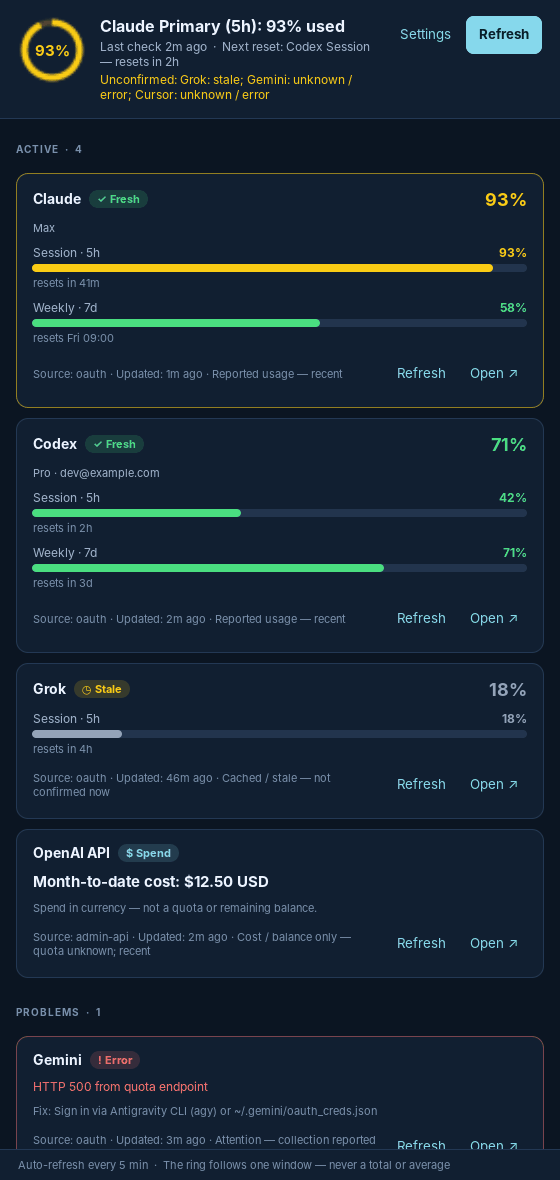
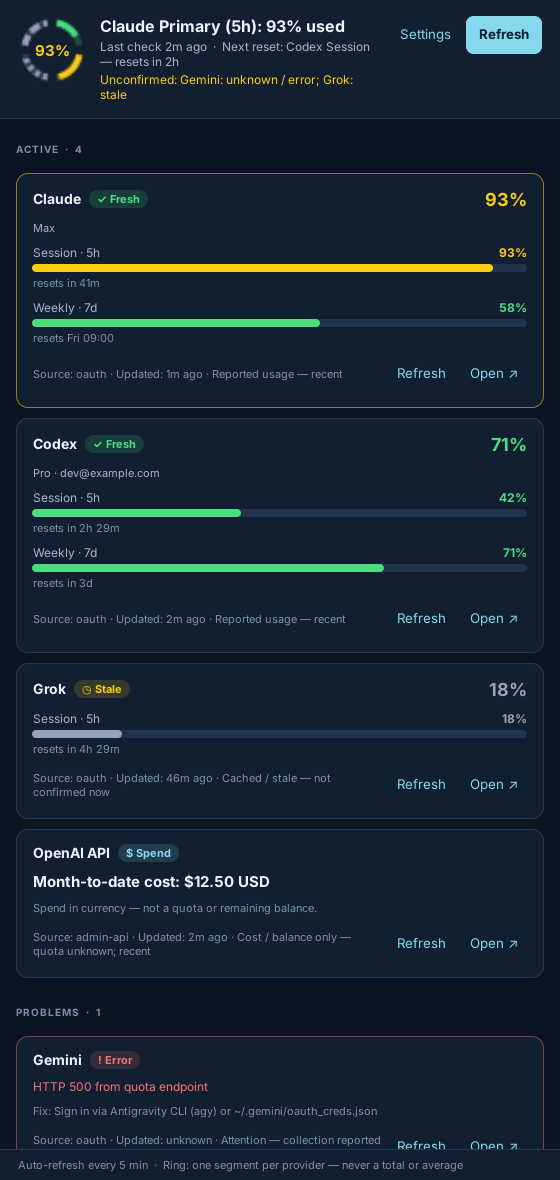
docs(site): segmented ring, new tray menu and meter choice
The website described the single most-used ring and the old menu.

- Hero copy, Tab. 1 note and a new "Segmented" row explain one ring
  segment per connected provider.
- The Overview demo (Fig. 2) draws segments with the same geometry as
  segmented_gauge_svg(); scenario B shows Claude's segment red and Codex's
  amber instead of a fully red ring.
- The tray menu mock (Fig. 3) matches the new menu: compact header, ring
  meters, conditions in words, middle-click and the ring/bar choice.
- The icon page adds segmented examples for light and dark panels.
- The Overview capture (Fig. 5) is re-rendered offscreen from this branch
  with the same synthetic data.

Claude-Session: https://claude.ai/code/session_01YaVGAeM8f2SdhnGuqCPbib

diff --git a/site/index.html b/site/index.html
@@ -33,7 +33,7 @@
       <div class="hero-text">
         <p class="meta">v0.1.0-alpha.4 · Linux, GTK 3 · MIT</p>
         <h1 class="display" data-pt="Uma lanterna para as suas <em>cotas de IA</em>." data-en="A lantern for your <em>AI quotas</em>.">Uma lanterna para as suas <em>cotas de IA</em>.</h1>
-        <p class="lede" data-pt="O QuotaLantern fica na bandeja do sistema e mostra quanto você já usou da janela mais cheia entre Codex, Claude, Gemini e outros. Se a leitura está velha ou não chegou, o anel avisa em vez de mostrar zero." data-en="QuotaLantern sits in your system tray and shows how much of the fullest window you have used across Codex, Claude, Gemini and more. If a reading is old or never arrived, the ring says so instead of showing zero.">O QuotaLantern fica na bandeja do sistema e mostra quanto você já usou da janela mais cheia entre Codex, Claude, Gemini e outros. Se a leitura está velha ou não chegou, o anel avisa em vez de mostrar zero.</p>
+        <p class="lede" data-pt="O QuotaLantern fica na bandeja do sistema e mostra quanto você já usou das cotas do Codex, Claude, Gemini e outros, com um segmento do anel por provedor. Se a leitura está velha ou não chegou, o anel avisa em vez de mostrar zero." data-en="QuotaLantern sits in your system tray and shows how much of your Codex, Claude, Gemini and other quotas you have used, one ring segment per provider. If a reading is old or never arrived, the ring says so instead of showing zero.">O QuotaLantern fica na bandeja do sistema e mostra quanto você já usou das cotas do Codex, Claude, Gemini e outros, com um segmento do anel por provedor. Se a leitura está velha ou não chegou, o anel avisa em vez de mostrar zero.</p>
         <div class="btn-row">
           <a class="btn solid" href="#instalar"><span data-pt="Instalar" data-en="Install">Instalar</span> <span aria-hidden="true">↓</span></a>
           <a class="btn" href="https://github.com/caiolombello/quotalantern" data-pt="Código no GitHub ↗" data-en="Source on GitHub ↗">Código no GitHub ↗</a>
@@ -74,8 +74,8 @@
       <div class="demo" data-demo>
         <fieldset class="scenario-list">
           <legend data-pt="Escolha um cenário" data-en="Pick a scenario">Escolha um cenário</legend>
-          <label class="scenario"><input type="radio" name="scenario" value="normal" checked><span class="key">A</span><span class="name" data-pt="Tudo certo" data-en="All clear">Tudo certo</span><span class="desc" data-pt="Leituras recentes. O anel acompanha a janela mais cheia, aqui a sessão de 5 h do Codex." data-en="Fresh readings. The ring follows the fullest window, here Codex’s 5-hour session.">Leituras recentes. O anel acompanha a janela mais cheia, aqui a sessão de 5 h do Codex.</span></label>
-          <label class="scenario"><input type="radio" name="scenario" value="near"><span class="key">B</span><span class="name" data-pt="Perto do limite" data-en="Near the limit">Perto do limite</span><span class="desc" data-pt="O Claude passou de 95%. Anel e barra ficam vermelhos e o card sobe para o topo. O anel nunca soma provedores nem tira média." data-en="Claude went past 95%. Ring and bar turn red and the card moves to the top. The ring never adds providers up or averages them.">O Claude passou de 95%. Anel e barra ficam vermelhos e o card sobe para o topo. O anel nunca soma provedores nem tira média.</span></label>
+          <label class="scenario"><input type="radio" name="scenario" value="normal" checked><span class="key">A</span><span class="name" data-pt="Tudo certo" data-en="All clear">Tudo certo</span><span class="desc" data-pt="Leituras recentes. Cada provedor tem um segmento do anel, preenchido pela sua janela mais cheia: Codex 42% e Claude 27%." data-en="Fresh readings. Each provider gets a ring segment filled by its fullest window: Codex 42% and Claude 27%.">Leituras recentes. Cada provedor tem um segmento do anel, preenchido pela sua janela mais cheia: Codex 42% e Claude 27%.</span></label>
+          <label class="scenario"><input type="radio" name="scenario" value="near"><span class="key">B</span><span class="name" data-pt="Perto do limite" data-en="Near the limit">Perto do limite</span><span class="desc" data-pt="O Claude passou de 95%. Só o segmento dele fica vermelho, o do Codex segue âmbar, e o card sobe para o topo. O anel nunca soma provedores nem tira média." data-en="Claude went past 95%. Only its segment turns red, Codex’s stays amber, and the card moves to the top. The ring never adds providers up or averages them.">O Claude passou de 95%. Só o segmento dele fica vermelho, o do Codex segue âmbar, e o card sobe para o topo. O anel nunca soma provedores nem tira média.</span></label>
           <label class="scenario"><input type="radio" name="scenario" value="stale"><span class="key">C</span><span class="name" data-pt="Leitura antiga" data-en="Stale reading">Leitura antiga</span><span class="desc" data-pt="Nada foi confirmado nos últimos 10 minutos. As barras ficam cinza, o anel mostra um relógio e a janela lista o que ficou sem confirmação." data-en="Nothing was confirmed in the last 10 minutes. Bars turn grey, the ring shows a clock and the window lists what is unconfirmed.">Nada foi confirmado nos últimos 10 minutos. As barras ficam cinza, o anel mostra um relógio e a janela lista o que ficou sem confirmação.</span></label>
           <label class="scenario"><input type="radio" name="scenario" value="unknown"><span class="key">D</span><span class="name" data-pt="Sem dados" data-en="No data">Sem dados</span><span class="desc" data-pt="O Gemini respondeu com erro e o Cursor não está conectado. Cada card diz o que fazer." data-en="Gemini returned an error and Cursor isn’t connected. Each card says what to do.">O Gemini respondeu com erro e o Cursor não está conectado. Cada card diz o que fazer.</span></label>
         </fieldset>
@@ -94,7 +94,7 @@
                 <div class="app-buttons"><span class="app-btn">Settings</span><span class="app-btn primary">Refresh</span></div>
               </div>
               <div class="app-body" data-app-body></div>
-              <div class="app-foot">Auto-refresh every 5 min  ·  The ring follows one window — never a total or average</div>
+              <div class="app-foot">Auto-refresh every 5 min  ·  Ring: one segment per provider — never a total or average</div>
             </div>
           </div>
           <figcaption class="caption plate-cap" data-pt="Fig. 2 · Janela Overview com dados inventados. O texto do app é em inglês." data-en="Fig. 2 · Overview window with made-up data. The app’s text is in English.">Fig. 2 · Janela Overview com dados inventados. O texto do app é em inglês.</figcaption>
@@ -120,10 +120,11 @@
             <tr><td><span class="icons"><svg viewBox="0 0 32 32" aria-hidden="true" focusable="false"><circle cx="16" cy="16" r="13" fill="none" stroke="var(--crit)" stroke-width="3" opacity=".25"/><circle cx="16" cy="16" r="13" fill="none" stroke="var(--crit)" stroke-width="3" stroke-dasharray="79.231 81.681" transform="rotate(-90 16 16)"/><g transform="translate(7.68 7.68) scale(.52)" fill="var(--ink)"><path d="M9 3H15V6H18L23 11H1L6 6H9Z"/><path d="M3 13H7L10 26H18L21 13H25L21 30H7Z"/><path d="M12 14L30 12V20L12 18Z"/></g></svg><svg viewBox="0 0 32 32" aria-hidden="true" focusable="false"><circle cx="16" cy="16" r="13" fill="none" stroke="var(--crit)" stroke-width="3" opacity=".25"/><circle cx="16" cy="16" r="13" fill="none" stroke="var(--crit)" stroke-width="3" stroke-dasharray="79.231 81.681" transform="rotate(-90 16 16)"/><g transform="translate(7.68 7.68) scale(.52)" fill="var(--ink)"><path d="M9 3H15V6H18L23 11H1L6 6H9Z"/><path d="M3 13H7L10 26H18L21 13H25L21 30H7Z"/><path d="M12 14L30 12V20L12 18Z"/></g></svg></span></td><th scope="row" data-pt="Vermelho" data-en="Red">Vermelho</th><td data-pt="No nível crítico ou acima, 95% por padrão." data-en="At or above the critical level, 95% by default.">No nível crítico ou acima, 95% por padrão.</td></tr>
             <tr><td><span class="icons"><svg viewBox="0 0 32 32" aria-hidden="true" focusable="false"><circle cx="16" cy="16" r="13" fill="none" stroke="var(--neutral)" stroke-width="3" opacity=".25"/><circle cx="16" cy="16" r="13" fill="none" stroke="var(--neutral)" stroke-width="3" stroke-dasharray="2 3"/><path d="M11 16H21" fill="none" stroke="var(--neutral)" stroke-width="3" stroke-linecap="round"/></svg><svg viewBox="0 0 32 32" aria-hidden="true" focusable="false"><circle cx="16" cy="16" r="13" fill="none" stroke="var(--neutral)" stroke-width="3" opacity=".25"/><circle cx="16" cy="16" r="13" fill="none" stroke="var(--neutral)" stroke-width="3" stroke-dasharray="2 3"/><path d="M11 16H21" fill="none" stroke="var(--neutral)" stroke-width="3" stroke-linecap="round"/></svg></span></td><th scope="row" data-pt="Pontilhado com traço" data-en="Dotted with a dash">Pontilhado com traço</th><td data-pt="Sem leitura válida, com erro ou só com custo em moeda." data-en="No valid reading, an error, or currency cost only.">Sem leitura válida, com erro ou só com custo em moeda.</td></tr>
             <tr><td><span class="icons"><svg viewBox="0 0 32 32" aria-hidden="true" focusable="false"><circle cx="16" cy="16" r="13" fill="none" stroke="var(--neutral)" stroke-width="3" opacity=".25"/><circle cx="16" cy="16" r="13" fill="none" stroke="var(--neutral)" stroke-width="3" stroke-dasharray="7 3"/><path d="M16 10V16L20 19" fill="none" stroke="var(--neutral)" stroke-width="3" stroke-linecap="round"/></svg><svg viewBox="0 0 32 32" aria-hidden="true" focusable="false"><circle cx="16" cy="16" r="13" fill="none" stroke="var(--neutral)" stroke-width="3" opacity=".25"/><circle cx="16" cy="16" r="13" fill="none" stroke="var(--neutral)" stroke-width="3" stroke-dasharray="7 3"/><path d="M16 10V16L20 19" fill="none" stroke="var(--neutral)" stroke-width="3" stroke-linecap="round"/></svg></span></td><th scope="row" data-pt="Tracejado com relógio" data-en="Dashed with a clock">Tracejado com relógio</th><td data-pt="Leitura de cache ou com mais de 10 minutos." data-en="Cached reading or older than 10 minutes.">Leitura de cache ou com mais de 10 minutos.</td></tr>
+            <tr><td><span class="icons"><svg viewBox="0 0 32 32" aria-hidden="true" focusable="false"><path d="M18.257 3.197A13 13 0 0 1 18.257 28.803" fill="none" stroke="var(--crit)" stroke-width="3" opacity=".25"/><path d="M18.257 3.197A13 13 0 0 1 18.257 28.803" fill="none" stroke="var(--crit)" stroke-width="3"/><path d="M13.743 28.803A13 13 0 0 1 13.743 3.197" fill="none" stroke="var(--ok)" stroke-width="3" opacity=".25"/><path d="M13.743 28.803A13 13 0 0 1 7.301 25.661" fill="none" stroke="var(--ok)" stroke-width="3"/><g transform="translate(7.68 7.68) scale(.52)" fill="var(--ink)"><path d="M9 3H15V6H18L23 11H1L6 6H9Z"/><path d="M3 13H7L10 26H18L21 13H25L21 30H7Z"/><path d="M12 14L30 12V20L12 18Z"/></g></svg><svg viewBox="0 0 32 32" aria-hidden="true" focusable="false"><path d="M18.257 3.197A13 13 0 0 1 18.257 28.803" fill="none" stroke="var(--crit)" stroke-width="3" opacity=".25"/><path d="M18.257 3.197A13 13 0 0 1 18.257 28.803" fill="none" stroke="var(--crit)" stroke-width="3"/><path d="M13.743 28.803A13 13 0 0 1 13.743 3.197" fill="none" stroke="var(--ok)" stroke-width="3" opacity=".25"/><path d="M13.743 28.803A13 13 0 0 1 7.301 25.661" fill="none" stroke="var(--ok)" stroke-width="3"/><g transform="translate(7.68 7.68) scale(.52)" fill="var(--ink)"><path d="M9 3H15V6H18L23 11H1L6 6H9Z"/><path d="M3 13H7L10 26H18L21 13H25L21 30H7Z"/><path d="M12 14L30 12V20L12 18Z"/></g></svg></span></td><th scope="row" data-pt="Segmentado" data-en="Segmented">Segmentado</th><td data-pt="Dois ou mais provedores conectados: um segmento cada, no sentido horário a partir do topo. Aqui o Codex no limite e o Claude em 20%." data-en="Two or more connected providers: one segment each, clockwise from the top. Here Codex at its limit and Claude at 20%.">Dois ou mais provedores conectados: um segmento cada, no sentido horário a partir do topo. Aqui o Codex no limite e o Claude em 20%.</td></tr>
           </tbody>
         </table>
       </div>
-      <p class="note" data-pt="Com vários provedores, o anel mostra a janela mais cheia entre as leituras recentes, e o menu diz qual é. Custos de API aparecem em moeda nos cards e nunca entram no anel. <a href='icons.html'>Matriz completa de ícones</a>." data-en="With several providers, the ring shows the fullest window among recent readings, and the menu says which one. API costs show up in currency on the cards and never feed the ring. <a href='icons.html'>Full icon matrix</a>.">Com vários provedores, o anel mostra a janela mais cheia entre as leituras recentes, e o menu diz qual é. Custos de API aparecem em moeda nos cards e nunca entram no anel. <a href="icons.html">Matriz completa de ícones</a>.</p>
+      <p class="note" data-pt="Com dois ou mais provedores conectados, o anel se divide em um segmento por provedor, cada um com a cor e o preenchimento da sua janela mais cheia. Um provedor no limite não pinta o anel inteiro de vermelho. Custos de API aparecem em moeda nos cards e nunca entram no anel. <a href='icons.html'>Matriz completa de ícones</a>." data-en="With two or more connected providers, the ring splits into one segment per provider, each with the color and fill of its fullest window. One provider at its limit doesn’t paint the whole ring red. API costs show up in currency on the cards and never feed the ring. <a href='icons.html'>Full icon matrix</a>.">Com dois ou mais provedores conectados, o anel se divide em um segmento por provedor, cada um com a cor e o preenchimento da sua janela mais cheia. Um provedor no limite não pinta o anel inteiro de vermelho. Custos de API aparecem em moeda nos cards e nunca entram no anel. <a href="icons.html">Matriz completa de ícones</a>.</p>
     </div>
   </section>
 

diff --git a/site/dashboard.html b/site/dashboard.html
@@ -41,22 +41,19 @@
     <div class="figure-row">
       <figure>
         <div class="plate">
-          <div class="panel" aria-hidden="true"><span class="glyph round"></span><span class="glyph"></span><span class="tray-ring" data-static-ring="96,critical"></span><span>14:32</span></div>
+          <div class="panel" aria-hidden="true"><span class="glyph round"></span><span class="glyph"></span><span class="tray-ring" data-static-segments="71,ok;96,critical;none,stale"></span><span>14:32</span></div>
           <ul class="menu-mock" aria-hidden="true">
               <li class="dim">Claude Primary (5h): 96% used</li>
-              <li class="dim">Source: oauth · Updated: 1m ago · Reported usage — recent</li>
-              <li class="dim">Ring: one reported window; largest consumed fraction, not total quota.</li>
+              <li class="dim">Source: oauth · Updated: 1m ago</li>
+              <li class="dim">Next reset: Codex Session — resets in 2h</li>
               <li class="dim">Unconfirmed: Grok: stale</li>
-              <li class="dim">Next reset: Codex Session — resets in 2h  ·  Last check 1m ago</li>
               <li class="sep"></li>
               <li class="on">Open Overview…</li>
               <li>Refresh Now</li>
               <li class="sep"></li>
-              <li class="dim">At the limit · 1</li>
-              <li><span>🔴  Claude  96%  <span class="blk">███████░</span></span><span>▸</span></li>
-              <li class="dim">Active · 2</li>
-              <li><span>🟢  Codex  71%  <span class="blk">█████░░░</span></span><span>▸</span></li>
-              <li><span>⚪  Grok  18%  <span class="blk">█░░░░░░░</span>  · ◷ Stale</span><span>▸</span></li>
+              <li><span><span class="mi" data-static-ring="96,critical,app,plain"></span>Claude — 96% · at the limit</span><span>▸</span></li>
+              <li><span><span class="mi" data-static-ring="71,ok,app,plain"></span>Codex — 71%</span><span>▸</span></li>
+              <li><span><span class="mi" data-static-ring="none,stale,app,plain"></span>Grok — 18% · ◷ Stale</span><span>▸</span></li>
               <li class="sep"></li>
               <li>Settings…</li>
               <li>Open Logs</li>
@@ -71,9 +68,10 @@
         <h2 class="display" id="menu-title" data-pt="O menu começa pelo anel." data-en="The menu starts with the ring.">O menu começa pelo anel.</h2>
         <p data-pt="As primeiras linhas explicam o que o ícone mostra: qual janela, de onde veio o dado, quando foi lido e o que ficou sem confirmação." data-en="The first lines explain what the icon shows: which window, where the data came from, when it was read and what is unconfirmed.">As primeiras linhas explicam o que o ícone mostra: qual janela, de onde veio o dado, quando foi lido e o que ficou sem confirmação.</p>
         <ol class="points">
-            <li data-pt="Cor só para leituras confirmadas. O Grok, com leitura antiga, aparece em cinza." data-en="Color only for confirmed readings. Grok, with a stale reading, shows in grey.">Cor só para leituras confirmadas. O Grok, com leitura antiga, aparece em cinza.</li>
-            <li data-pt="Cada provedor abre um submenu com as janelas, o reset, a conta e a origem do dado." data-en="Each provider opens a submenu with its windows, reset, account and data source.">Cada provedor abre um submenu com as janelas, o reset, a conta e a origem do dado.</li>
-            <li data-pt="Abrir a Overview e atualizar ficam no primeiro nível, sem submenu." data-en="Opening the Overview and refreshing sit at the top level, no submenu.">Abrir a Overview e atualizar ficam no primeiro nível, sem submenu.</li>
+            <li data-pt="Cada provedor tem um medidor próprio, e cor só aparece em leitura confirmada. O Grok, com leitura antiga, fica com o anel cinza tracejado." data-en="Each provider has its own meter, and color only shows for confirmed readings. Grok, with a stale reading, gets the dashed grey ring.">Cada provedor tem um medidor próprio, e cor só aparece em leitura confirmada. O Grok, com leitura antiga, fica com o anel cinza tracejado.</li>
+            <li data-pt="Cada linha diz o estado em palavras. O submenu mostra as janelas com o reset em contagem regressiva, a conta e a origem do dado." data-en="Each row states its condition in words. The submenu shows the windows with a live reset countdown, the account and the data source.">Cada linha diz o estado em palavras. O submenu mostra as janelas com o reset em contagem regressiva, a conta e a origem do dado.</li>
+            <li data-pt="Abrir a Overview e atualizar ficam no primeiro nível. O clique do meio no ícone também abre a Overview." data-en="Opening the Overview and refreshing sit at the top level. Middle-clicking the icon opens the Overview too.">Abrir a Overview e atualizar ficam no primeiro nível. O clique do meio no ícone também abre a Overview.</li>
+            <li data-pt="Em Settings → Display → Menu meters, os medidores podem ser anéis, o padrão, ou barras." data-en="Under Settings → Display → Menu meters, the meters can be rings, the default, or bars.">Em Settings → Display → Menu meters, os medidores podem ser anéis, o padrão, ou barras.</li>
         </ol>
       </div>
     </div>
@@ -126,7 +124,7 @@
       </div>
       <div class="captures">
         <figure>
-          <img src="assets/screens/overview-dark.png" width="560" height="1180" loading="lazy" alt="Janela Overview no tema escuro: Claude a 93%, Codex a 71%, Grok com leitura antiga, gasto da OpenAI API e um erro do Gemini." data-pt-alt="Janela Overview no tema escuro: Claude a 93%, Codex a 71%, Grok com leitura antiga, gasto da OpenAI API e um erro do Gemini." data-en-alt="Overview window in the dark theme: Claude at 93%, Codex at 71%, Grok with a stale reading, OpenAI API spend and a Gemini error.">
+          <img src="assets/screens/overview-dark.png" width="560" height="1180" loading="lazy" alt="Janela Overview no tema escuro, com o anel dividido por provedor: Claude a 93%, Codex a 71%, Grok com leitura antiga, gasto da OpenAI API e um erro do Gemini." data-pt-alt="Janela Overview no tema escuro, com o anel dividido por provedor: Claude a 93%, Codex a 71%, Grok com leitura antiga, gasto da OpenAI API e um erro do Gemini." data-en-alt="Overview window in the dark theme, with the ring split per provider: Claude at 93%, Codex at 71%, Grok with a stale reading, OpenAI API spend and a Gemini error.">
           <figcaption class="caption" data-pt="Fig. 5 · Overview, tema escuro." data-en="Fig. 5 · Overview, dark theme.">Fig. 5 · Overview, tema escuro.</figcaption>
         </figure>
         <figure>

diff --git a/site/icons.html b/site/icons.html
@@ -50,9 +50,19 @@
           </tbody>
         </table>
       </div>
+      <h2 class="sr-only" id="segments-title" data-pt="Anel segmentado" data-en="Segmented ring">Anel segmentado</h2>
+      <div class="table-wrap">
+        <table class="spec matrix">
+          <thead><tr><th scope="col" data-pt="Segmentos" data-en="Segments">Segmentos</th><th scope="col" data-pt="2 provedores" data-en="2 providers">2 provedores</th><th scope="col" data-pt="3 provedores" data-en="3 providers">3 provedores</th><th scope="col" data-pt="Com desconhecido e antigo" data-en="With unknown and stale">Com desconhecido e antigo</th><th scope="col" data-pt="5 provedores" data-en="5 providers">5 provedores</th></tr></thead>
+          <tbody>
+            <tr class="light-row"><th scope="row">light · facho</th><td><span class="swatch"><img src="assets/tray/segments-light-2.svg" width="16" height="16" alt="Codex 100% · Claude 20%, 16 px"><img src="assets/tray/segments-light-2.svg" width="24" height="24" alt="Codex 100% · Claude 20%, 24 px"></span></td><td><span class="swatch"><img src="assets/tray/segments-light-3.svg" width="16" height="16" alt="Codex 100% · Claude 20% · Grok 75%, 16 px"><img src="assets/tray/segments-light-3.svg" width="24" height="24" alt="Codex 100% · Claude 20% · Grok 75%, 24 px"></span></td><td><span class="swatch"><img src="assets/tray/segments-light-mixed.svg" width="16" height="16" alt="Codex 40% · Claude unknown · Grok stale, 16 px"><img src="assets/tray/segments-light-mixed.svg" width="24" height="24" alt="Codex 40% · Claude unknown · Grok stale, 24 px"></span></td><td><span class="swatch"><img src="assets/tray/segments-light-5.svg" width="16" height="16" alt="5 providers, 16 px"><img src="assets/tray/segments-light-5.svg" width="24" height="24" alt="5 providers, 24 px"></span></td></tr>
+            <tr class="dark-row"><th scope="row">dark · facho</th><td><span class="swatch"><img src="assets/tray/segments-dark-2.svg" width="16" height="16" alt="Codex 100% · Claude 20%, 16 px"><img src="assets/tray/segments-dark-2.svg" width="24" height="24" alt="Codex 100% · Claude 20%, 24 px"></span></td><td><span class="swatch"><img src="assets/tray/segments-dark-3.svg" width="16" height="16" alt="Codex 100% · Claude 20% · Grok 75%, 16 px"><img src="assets/tray/segments-dark-3.svg" width="24" height="24" alt="Codex 100% · Claude 20% · Grok 75%, 24 px"></span></td><td><span class="swatch"><img src="assets/tray/segments-dark-mixed.svg" width="16" height="16" alt="Codex 40% · Claude unknown · Grok stale, 16 px"><img src="assets/tray/segments-dark-mixed.svg" width="24" height="24" alt="Codex 40% · Claude unknown · Grok stale, 24 px"></span></td><td><span class="swatch"><img src="assets/tray/segments-dark-5.svg" width="16" height="16" alt="5 providers, 16 px"><img src="assets/tray/segments-dark-5.svg" width="24" height="24" alt="5 providers, 24 px"></span></td></tr>
+          </tbody>
+        </table>
+      </div>
       <div class="prose">
         <p data-pt="Variante usada: <strong>Facho dentro do anel</strong>. O anel tem o mesmo tamanho nas duas variantes e o Facho fica simples no centro. A identidade completa continua no app e no lançador." data-en="Variant in use: <strong>Facho inside the ring</strong>. The ring is the same size in both variants and the Facho stays simple in the center. The full identity remains in the app and launcher.">Variante usada: <strong>Facho dentro do anel</strong>. O anel tem o mesmo tamanho nas duas variantes e o Facho fica simples no centro. A identidade completa continua no app e no lançador.</p>
-        <p data-pt="Com vários provedores, o ícone mostra a janela recente com a maior fração usada e informa provedor, janela, origem e idade. É uma regra para chamar atenção, não uma cota total nem uma recomendação. Custos não entram." data-en="With several providers, the icon shows the recent window with the largest used fraction and names provider, window, source and age. It’s a rule for getting your attention, not a total quota or a recommendation. Costs are left out.">Com vários provedores, o ícone mostra a janela recente com a maior fração usada e informa provedor, janela, origem e idade. É uma regra para chamar atenção, não uma cota total nem uma recomendação. Custos não entram.</p>
+        <p data-pt="Com dois ou mais provedores conectados, o anel se divide em um segmento por provedor, no sentido horário a partir do topo. Cada segmento tem a cor e o preenchimento da janela mais cheia daquele provedor, então um provedor no limite não deixa o anel inteiro vermelho. Leitura desconhecida ou antiga vira um segmento cinza pontilhado ou tracejado; provedor não conectado fica de fora. O título e o menu nomeiam a janela mais cheia, com origem e idade. Não é uma cota total nem uma recomendação. Custos não entram." data-en="With two or more connected providers, the ring splits into one segment per provider, clockwise from the top. Each segment takes the color and fill of that provider’s fullest window, so one provider at its limit doesn’t turn the whole ring red. An unknown or stale reading becomes a dotted or dashed grey segment; providers that aren’t connected are left out. The title and menu name the fullest window, with source and age. It’s not a total quota or a recommendation. Costs are left out.">Com dois ou mais provedores conectados, o anel se divide em um segmento por provedor, no sentido horário a partir do topo. Cada segmento tem a cor e o preenchimento da janela mais cheia daquele provedor, então um provedor no limite não deixa o anel inteiro vermelho. Leitura desconhecida ou antiga vira um segmento cinza pontilhado ou tracejado; provedor não conectado fica de fora. O título e o menu nomeiam a janela mais cheia, com origem e idade. Não é uma cota total nem uma recomendação. Custos não entram.</p>
       </div>
     </div>
   </section>

diff --git a/site/ui.js b/site/ui.js
@@ -28,6 +28,35 @@ function ringSVG(pct, state, { center = 'facho', palette = 'app' } = {}) {
   return svg + '</svg>';
 }
 
+/* Two or more providers: one segment each, clockwise from the top, in the
+   enabled-provider order; same gap rule as segmented_gauge_svg(). */
+function arcPath(start, end) {
+  const pt = deg => { const a = deg * Math.PI / 180; return `${(16 + R * Math.sin(a)).toFixed(3)} ${(16 - R * Math.cos(a)).toFixed(3)}`; };
+  return `M${pt(start)}A13 13 0 ${end - start > 180 ? 1 : 0} 1 ${pt(end)}`;
+}
+
+function segmentedSVG(segments, { center = 'facho', palette = 'app' } = {}) {
+  const v = name => `var(--${palette === 'app' ? 'app-' : ''}${name})`;
+  const step = 360 / segments.length;
+  const gap = Math.min(20, step * 0.3);
+  const span = step - gap;
+  let svg = '<svg viewBox="0 0 32 32" aria-hidden="true" focusable="false">';
+  segments.forEach(([pct, state], i) => {
+    const start = i * step + gap / 2;
+    const whole = arcPath(start, start + span);
+    if (state in TONE) {
+      const color = v(TONE[state]);
+      svg += `<path d="${whole}" fill="none" stroke="${color}" stroke-width="3" opacity=".25"/>`;
+      if (pct > 0) svg += `<path d="${arcPath(start, start + span * pct / 100)}" fill="none" stroke="${color}" stroke-width="3"/>`;
+    } else {
+      const color = v('neutral');
+      svg += `<path d="${whole}" fill="none" stroke="${color}" stroke-width="3" opacity=".25"/><path d="${whole}" fill="none" stroke="${color}" stroke-width="3" stroke-dasharray="${state === 'unknown' ? '2 2' : '5 2'}"/>`;
+    }
+  });
+  if (center === 'facho') svg += `<g transform="translate(7.68 7.68) scale(.52)" fill="${v('ink')}">${FACHO_PATHS}</g>`;
+  return svg + '</svg>';
+}
+
 /* ── Fig. 1: the tray icon, enlarged and annotated ───────────────────── */
 const CALLOUTS = {
   known: pct => [
@@ -88,7 +117,7 @@ function setupRingFigure() {
 const FRESH = 'Source: oauth · Updated: just now · Reported usage — recent';
 const SCENARIOS = {
   normal: {
-    ring: [42, 'ok'], label: 'Codex Primary (5h): 42% used',
+    ring: [42, 'ok'], segments: [[42, 'ok'], [27, 'ok']], label: 'Codex Primary (5h): 42% used',
     sub: 'Last check just now  ·  Next reset: Codex Session — resets in 2h',
     sections: [['ACTIVE', [
       { name: 'Codex', pill: ['ok', '✓ Fresh'], pct: [42, 'ok'], plan: 'Pro', meters: [['Session · 5h', 42, 'ok', 'resets in 2h'], ['Weekly · 7d', 31, 'ok', 'resets in 4d']], details: FRESH },
@@ -99,7 +128,7 @@ const SCENARIOS = {
     ], false]],
   },
   near: {
-    ring: [96, 'critical'], label: 'Claude Primary (5h): 96% used',
+    ring: [96, 'critical'], segments: [[88, 'warning'], [96, 'critical']], label: 'Claude Primary (5h): 96% used',
     sub: 'Last check 1m ago  ·  Next reset: Claude Session — resets in 41m',
     sections: [
       ['AT THE LIMIT', [
@@ -156,9 +185,10 @@ function cardHTML(c) {
 function renderScenario(root, key) {
   const s = SCENARIOS[key];
   const [pct, state] = s.ring;
-  root.querySelectorAll('[data-tray-ring]').forEach(el => { el.innerHTML = ringSVG(pct, state); });
+  const draw = opts => (s.segments ? segmentedSVG(s.segments, opts) : ringSVG(pct, state, opts));
+  root.querySelectorAll('[data-tray-ring]').forEach(el => { el.innerHTML = draw(); });
   const ring = root.querySelector('[data-app-ring]');
-  if (ring) ring.innerHTML = ringSVG(pct, state, { center: 'plain' }) + (pct === null ? '' : `<b class="t-${TONE[state]}">${pct}%</b>`);
+  if (ring) ring.innerHTML = draw({ center: 'plain' }) + (pct === null ? '' : `<b class="t-${TONE[state]}">${pct}%</b>`);
   const set = (sel, text) => { const el = root.querySelector(sel); if (el) { el.textContent = text || ''; el.hidden = !text; } };
   set('[data-app-title]', s.label);
   set('[data-app-sub]', s.sub);
@@ -229,8 +259,15 @@ function initialLanguage() {
 }
 
 document.querySelectorAll('[data-static-ring]').forEach(el => {
-  const [pct, state, palette] = el.dataset.staticRing.split(',');
-  el.innerHTML = ringSVG(pct === 'none' ? null : Number(pct), state, { palette: palette || 'app' });
+  const [pct, state, palette, center] = el.dataset.staticRing.split(',');
+  el.innerHTML = ringSVG(pct === 'none' ? null : Number(pct), state, { palette: palette || 'app', center: center || 'facho' });
+});
+document.querySelectorAll('[data-static-segments]').forEach(el => {
+  const segments = el.dataset.staticSegments.split(';').map(part => {
+    const [pct, state] = part.split(',');
+    return [pct === 'none' ? null : Number(pct), state];
+  });
+  el.innerHTML = segmentedSVG(segments);
 });
 document.querySelectorAll('[data-lang]').forEach(b => b.addEventListener('click', () => applyLanguage(b.dataset.lang, true)));
 setupRingFigure();

diff --git a/site/style.css b/site/style.css
@@ -258,7 +258,8 @@ kbd { padding: 1px 6px; border: 1px solid var(--rule-2); border-bottom-width: 2p
 .menu-mock li.dim { color: #8ea2bb; }
 .menu-mock li.on { background: #2a4f7a; }
 .menu-mock li.sep { height: 1px; padding: 0; margin: 5px 8px; background: #2a3d55; }
-.menu-mock .blk { font-family: var(--mono); font-size: 12px; letter-spacing: -.03em; }
+.menu-mock .mi { display: inline-flex; width: 16px; height: 16px; margin-right: 8px; vertical-align: -3px; }
+.menu-mock .mi svg { width: 16px; height: 16px; }
 .settings-mock { display: grid; grid-template-columns: 140px 1fr; border-radius: 8px; overflow: hidden; background: #1f1f1f; border: 1px solid #333; color: #ececec; font-size: 13px; }
 .settings-mock nav { padding: 6px 0; background: #262626; border-right: 1px solid #333; }
 .settings-mock nav span { display: block; padding: 8px 14px; color: #cfcfcf; white-space: nowrap; }
